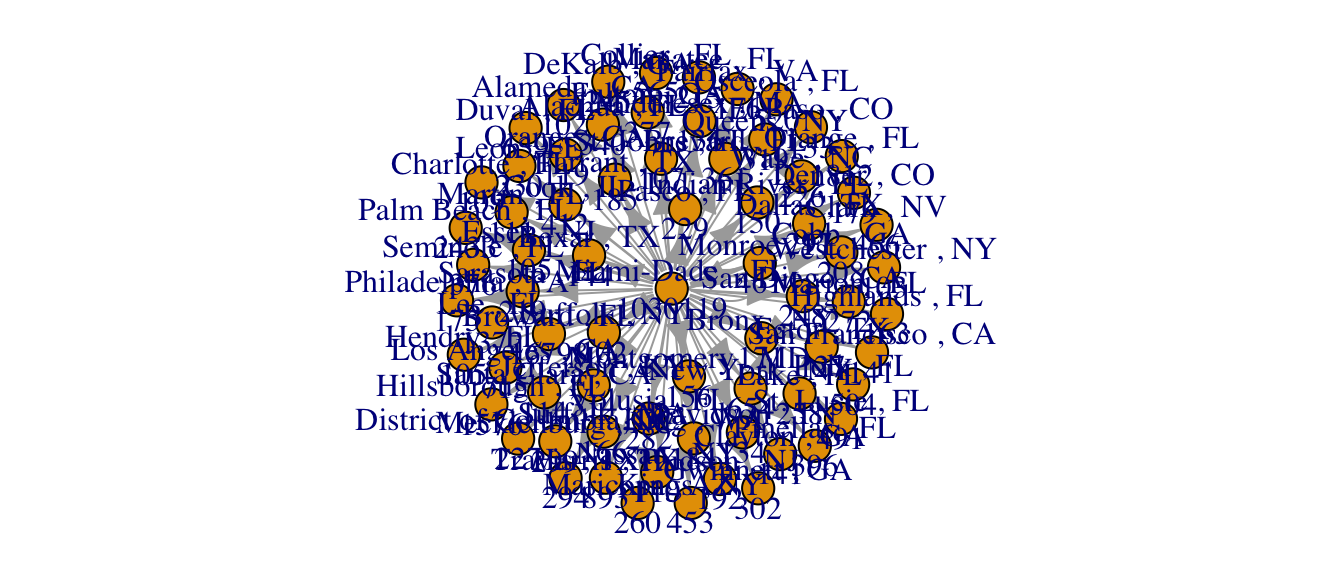
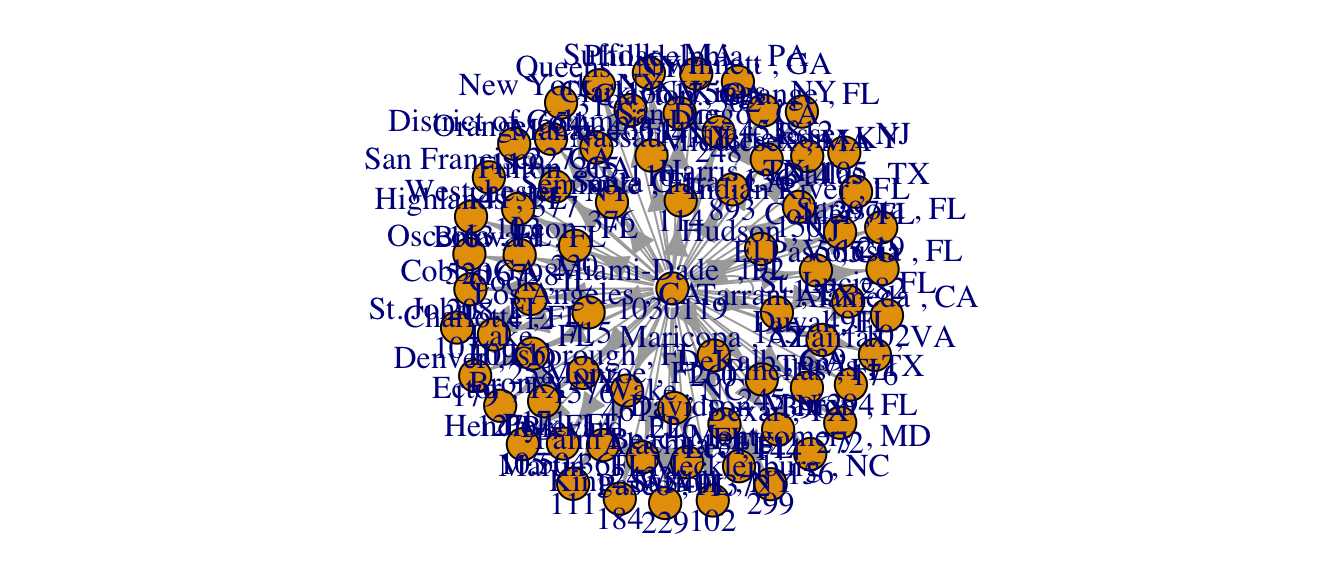
group w/i group

Changed region(s): [[0.25, 0.0625, 0.75, 0.9375]]

diff --git a/docs/irs.html b/docs/irs.html
@@ -196,6 +196,7 @@ code span.wa { color: #60a0b0; font-weight: bold; font-style: italic; } /* Warni
 <li class="chapter" data-level="4.4" data-path="irs.html"><a href="irs.html#open-the-space"><i class="fa fa-check"></i><b>4.4</b> Open the Space</a></li>
 <li class="chapter" data-level="4.5" data-path="irs.html"><a href="irs.html#set-variable-for-vertex-size"><i class="fa fa-check"></i><b>4.5</b> Set Variable for Vertex Size</a></li>
 <li class="chapter" data-level="4.6" data-path="irs.html"><a href="irs.html#set-vertex-color"><i class="fa fa-check"></i><b>4.6</b> Set Vertex Color</a></li>
+<li class="chapter" data-level="4.7" data-path="irs.html"><a href="irs.html#layout-of-nodes-1"><i class="fa fa-check"></i><b>4.7</b> Layout of nodes</a></li>
 </ul></li>
 <li class="chapter" data-level="5" data-path="airlines.html"><a href="airlines.html"><i class="fa fa-check"></i><b>5</b> Case Study – Airlines</a></li>
 <li class="chapter" data-level="6" data-path="glossary.html"><a href="glossary.html"><i class="fa fa-check"></i><b>6</b> Glossary</a></li>
@@ -284,6 +285,9 @@ Figure 4.2: Formatting arguments to open graphing space.
 Figure 4.3: Node attributes set for size and color.
 </p>
 </div>
+</div>
+<div id="layout-of-nodes-1" class="section level2">
+<h2><span class="header-section-number">4.7</span> Layout of nodes</h2>
 
 </div>
 </div>
